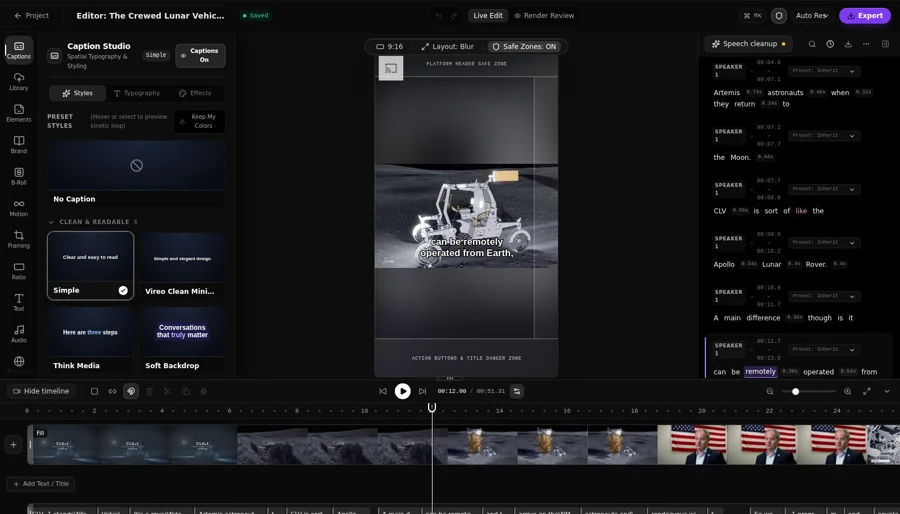
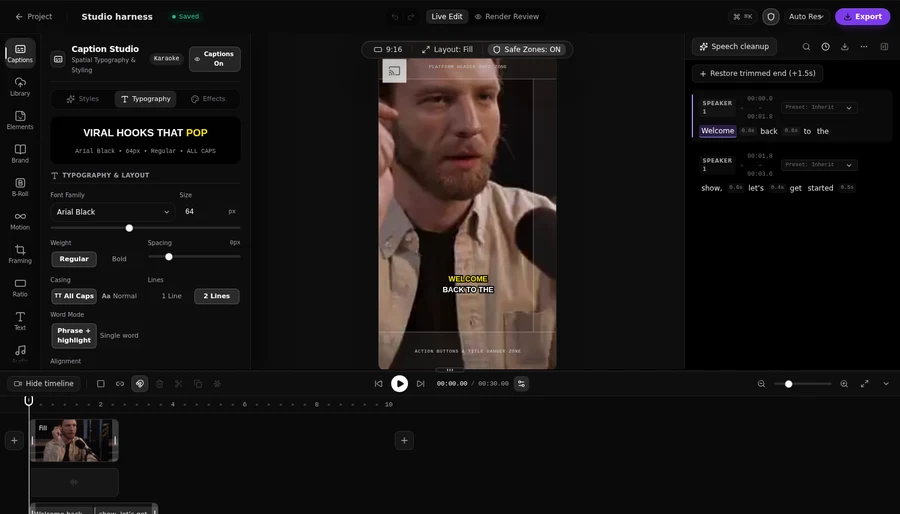
fix(landing): re-shoot editor UI card with non-NASA footage
editor-ui.webp was a genuine editor screenshot but its preview monitor
showed the NASA clip. Re-shot the real EditorShell via the studio harness
(new ?harness=studio entry + ?src= source param, harness cues now
podcast-themed) with the podcast demo segment: caption studio, karaoke
captions, transcript panel, no NASA content anywhere in the frame.

diff --git a/src/harness/studioHarness.tsx b/src/harness/studioHarness.tsx
@@ -11,19 +11,19 @@ import { nasaCues } from './nasaCues';
 import '../index.css';
 
 const words = [
-  { text: 'Remotely', start: 0.0, end: 0.6 },
-  { text: 'operated', start: 0.6, end: 1.2 },
-  { text: 'vehicles', start: 1.2, end: 1.8 },
-  { text: 'will', start: 1.8, end: 2.1 },
-  { text: 'scout', start: 2.1, end: 2.5 },
-  { text: 'the', start: 2.5, end: 2.7 },
-  { text: 'lunar', start: 2.7, end: 3.1 },
-  { text: 'surface', start: 3.1, end: 3.6 },
+  { text: 'Welcome', start: 0.0, end: 0.6 },
+  { text: 'back', start: 0.6, end: 1.2 },
+  { text: 'to', start: 1.2, end: 1.5 },
+  { text: 'the', start: 1.5, end: 1.8 },
+  { text: 'show,', start: 1.8, end: 2.4 },
+  { text: 'let’s', start: 2.4, end: 2.8 },
+  { text: 'get', start: 2.8, end: 3.1 },
+  { text: 'started', start: 3.1, end: 3.6 },
 ];
 
 const cues = [
-  { id: 'cue-1', start: 0, end: 1.8, text: 'Remotely operated vehicles', words: words.slice(0, 3) },
-  { id: 'cue-2', start: 1.8, end: 3.6, text: 'will scout the lunar surface', words: words.slice(3) },
+  { id: 'cue-1', start: 0, end: 1.8, text: 'Welcome back to the', words: words.slice(0, 4) },
+  { id: 'cue-2', start: 1.8, end: 3.6, text: 'show, let’s get started', words: words.slice(4) },
 ];
 
 const captionItem: any = {
@@ -287,7 +287,7 @@ function Harness() {
       <EditorShell
         clip={clip}
         project={project}
-        cleanSourceUrl={harnessQuery.get('nasa') === '1' ? '/harness/clip-nasa-seg.mp4' : '/harness/clip.mp4'}
+        cleanSourceUrl={harnessQuery.get('src') || (harnessQuery.get('nasa') === '1' ? '/harness/clip-nasa-seg.mp4' : '/harness/clip.mp4')}
         renderedPreviewUrl={null}
         watermarkRequired={false}
         cues={(harnessQuery.get('nasa') === '1' ? nasaCues : cues) as any}

diff --git a/src/main.tsx b/src/main.tsx
@@ -3,8 +3,14 @@ import ReactDOM from 'react-dom/client';
 import App from './App';
 import './index.css';
 
-ReactDOM.createRoot(document.getElementById('root') as HTMLElement).render(
-  <React.StrictMode>
-    <App />
-  </React.StrictMode>
-);
+// TEST-ONLY: ?harness=studio mounts the studio harness instead of the app.
+// The harness self-renders into #root on import.
+if (new URLSearchParams(window.location.search).get('harness') === 'studio') {
+  import('./harness/studioHarness');
+} else {
+  ReactDOM.createRoot(document.getElementById('root') as HTMLElement).render(
+    <React.StrictMode>
+      <App />
+    </React.StrictMode>
+  );
+}
